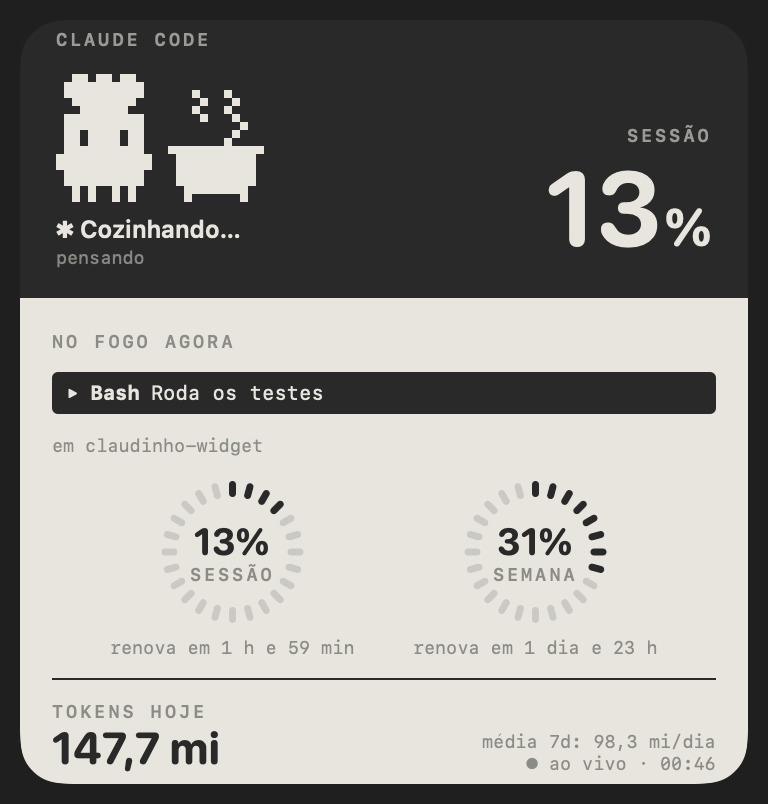
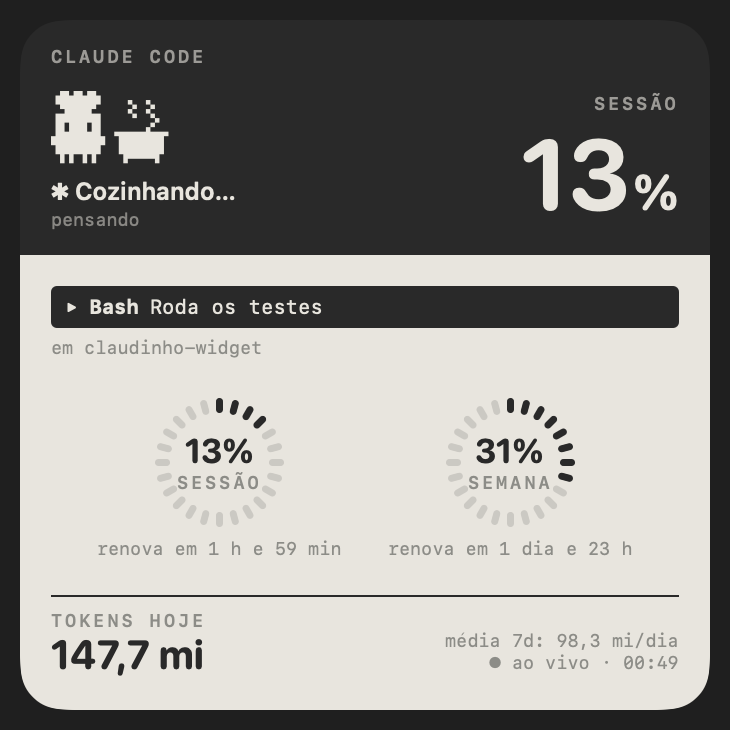
Widget médio e grande se ajustam ao tamanho real
O grande neste macOS tem 345x345, não 364x382, e cortava os tokens.
Médio e grande medem o espaço e distribuem a partir dele; o pequeno
usa a forma curta da renovação. Testes renderizam os dois tamanhos.

diff --git a/Widget/ClaudinhoWidget.swift b/Widget/ClaudinhoWidget.swift
@@ -131,7 +131,10 @@ struct SmallView: View {
                 Chef(state: s.state, pixel: 1.5)
             }
             Pct(value: s.sessionPct, size: 40, color: paper)
-            Resets(date: s.sessionResetsAt).font(.system(size: 10, design: .monospaced)).foregroundStyle(paper.opacity(0.55)).lineLimit(1)
+            Group {
+                if let r = s.sessionResetsAt { Text("↻ ") + Text(r, style: .relative) } else { Text("sem sessão ativa") }
+            }
+            .font(.system(size: 10, design: .monospaced)).foregroundStyle(paper.opacity(0.55)).lineLimit(1)
             Spacer(minLength: 4)
             Text("✱ \(s.state.title)").font(.system(size: 13, weight: .semibold)).foregroundStyle(paper).lineLimit(1)
             Text("semana \(Int((s.weekPct * 100).rounded()))%")
@@ -145,35 +148,44 @@ struct SmallView: View {
     }
 }
 
+// O tamanho de cada família muda com a tela e a versão do macOS (o grande chegou a 345x345
+// em vez de 364x382), então médio e grande medem o espaço e distribuem a partir dele.
+
 struct MediumView: View {
     let e: Entry
     var body: some View {
         let s = e.snap
-        HStack(spacing: 0) {
-            ChefSide(s: s, pixel: 3)
-                .padding(14)
-                .frame(width: 128, alignment: .leading)
-                .frame(maxHeight: .infinity)
-                .background(ink)
-            VStack(alignment: .leading, spacing: 6) {
-                ToolBar(s: s)
-                HStack(spacing: 10) {
-                    Dial(pct: s.sessionPct, label: "sessão", footnote: "", size: 62)
-                    Dial(pct: s.weekPct, label: "semana", footnote: "", size: 62)
-                }
-                .frame(maxWidth: .infinity)
-                HStack(alignment: .firstTextBaseline) {
-                    Text(Fmt.tokens(s.todayTokens)).font(.system(size: 13, weight: .bold, design: .rounded)).foregroundStyle(ink)
-                    Text("hoje").font(.system(size: 9, design: .monospaced)).foregroundStyle(faded)
-                    Spacer()
-                    if let r = s.sessionResetsAt {
-                        (Text("↻ ") + Text(r, style: .relative)).font(.system(size: 9, design: .monospaced)).foregroundStyle(faded).lineLimit(1)
+        GeometryReader { geo in
+            let h = geo.size.height
+            let dial = min(62, h * 0.38)
+            HStack(spacing: 0) {
+                ChefSide(s: s, pixel: min(3, (geo.size.width * 0.35 - 28) / CGFloat(Sprites.width)))
+                    .padding(14)
+                    .frame(width: geo.size.width * 0.35, alignment: .leading)
+                    .frame(maxHeight: .infinity)
+                    .background(ink)
+                VStack(alignment: .leading, spacing: 0) {
+                    ToolBar(s: s)
+                    Spacer(minLength: 4)
+                    HStack(spacing: 10) {
+                        Dial(pct: s.sessionPct, label: "sessão", footnote: "", size: dial)
+                        Dial(pct: s.weekPct, label: "semana", footnote: "", size: dial)
+                    }
+                    .frame(maxWidth: .infinity)
+                    Spacer(minLength: 4)
+                    HStack(alignment: .firstTextBaseline) {
+                        Text(Fmt.tokens(s.todayTokens)).font(.system(size: 13, weight: .bold, design: .rounded)).foregroundStyle(ink)
+                        Text("hoje").font(.system(size: 9, design: .monospaced)).foregroundStyle(faded)
+                        Spacer(minLength: 4)
+                        if let r = s.sessionResetsAt {
+                            (Text("↻ ") + Text(r, style: .relative)).font(.system(size: 9, design: .monospaced)).foregroundStyle(faded).lineLimit(1)
+                        }
                     }
                 }
+                .padding(12)
+                .frame(maxWidth: .infinity, maxHeight: .infinity)
+                .background(paper)
             }
-            .padding(12)
-            .frame(maxWidth: .infinity, maxHeight: .infinity)
-            .background(paper)
         }
     }
 }
@@ -182,52 +194,61 @@ struct LargeView: View {
     let e: Entry
     var body: some View {
         let s = e.snap
-        VStack(spacing: 0) {
-            HStack(alignment: .bottom, spacing: 0) {
-                ChefSide(s: s, pixel: 4)
-                Spacer(minLength: 8)
-                VStack(alignment: .trailing, spacing: 0) {
-                    Caption(text: "Sessão", color: paper.opacity(0.6))
-                    Pct(value: s.sessionPct, size: 52, color: paper)
+        GeometryReader { geo in
+            let h = geo.size.height
+            let pad = min(16, h * 0.045)
+            let header = h * 0.34
+            let dial = min(76, h * 0.2)
+            VStack(spacing: 0) {
+                HStack(alignment: .bottom, spacing: 0) {
+                    ChefSide(s: s, pixel: min(4, (header - 2 * pad - 50) / CGFloat(Sprites.height)))
+                    Spacer(minLength: 8)
+                    VStack(alignment: .trailing, spacing: 0) {
+                        Caption(text: "Sessão", color: paper.opacity(0.6))
+                        Pct(value: s.sessionPct, size: min(52, header * 0.42), color: paper)
+                    }
                 }
+                .padding(pad)
+                .frame(height: header)
+                .frame(maxWidth: .infinity)
+                .background(ink)
+                VStack(alignment: .leading, spacing: 0) {
+                    ToolBar(s: s)
+                    if let p = s.project {
+                        Text("em \(p)").font(.system(size: 9, design: .monospaced)).foregroundStyle(faded).lineLimit(1)
+                            .padding(.top, 4)
+                    }
+                    Spacer(minLength: 4)
+                    HStack {
+                        Spacer()
+                        VStack(spacing: 3) {
+                            Dial(pct: s.sessionPct, label: "sessão", footnote: "", size: dial)
+                            Resets(date: s.sessionResetsAt).font(.system(size: 9, design: .monospaced)).foregroundStyle(faded).lineLimit(1)
+                        }
+                        Spacer()
+                        VStack(spacing: 3) {
+                            Dial(pct: s.weekPct, label: "semana", footnote: "", size: dial)
+                            Resets(date: s.weekResetsAt).font(.system(size: 9, design: .monospaced)).foregroundStyle(faded).lineLimit(1)
+                        }
+                        Spacer()
+                    }
+                    Spacer(minLength: 4)
+                    Rectangle().fill(ink).frame(height: 1)
+                    HStack(alignment: .lastTextBaseline) {
+                        VStack(alignment: .leading, spacing: 0) {
+                            Caption(text: "Tokens hoje")
+                            Text(Fmt.tokens(s.todayTokens)).font(.system(size: 20, weight: .bold, design: .rounded)).foregroundStyle(ink)
+                        }
+                        Spacer(minLength: 4)
+                        Text("média 7d: \(Fmt.tokens(s.avg7dTokens))/dia\n" + (s.liveAt.map { "● ao vivo · \(Fmt.time($0))" } ?? "estimado"))
+                            .font(.system(size: 9, design: .monospaced)).foregroundStyle(faded).multilineTextAlignment(.trailing)
+                    }
+                    .padding(.top, 6)
+                }
+                .padding(pad)
+                .frame(maxWidth: .infinity, maxHeight: .infinity, alignment: .top)
+                .background(paper)
             }
-            .padding(18)
-            .frame(height: 150)
-            .frame(maxWidth: .infinity)
-            .background(ink)
-            VStack(alignment: .leading, spacing: 10) {
-                Caption(text: "No fogo agora")
-                ToolBar(s: s)
-                if let p = s.project {
-                    Text("em \(p)").font(.system(size: 9, design: .monospaced)).foregroundStyle(faded).lineLimit(1)
-                }
-                HStack {
-                    Spacer()
-                    VStack(spacing: 4) {
-                        Dial(pct: s.sessionPct, label: "sessão", footnote: "", size: 76)
-                        Resets(date: s.sessionResetsAt).font(.system(size: 9, design: .monospaced)).foregroundStyle(faded).lineLimit(1)
-                    }
-                    Spacer()
-                    VStack(spacing: 4) {
-                        Dial(pct: s.weekPct, label: "semana", footnote: "", size: 76)
-                        Resets(date: s.weekResetsAt).font(.system(size: 9, design: .monospaced)).foregroundStyle(faded).lineLimit(1)
-                    }
-                    Spacer()
-                }
-                Rectangle().fill(ink).frame(height: 1)
-                HStack(alignment: .bottom) {
-                    VStack(alignment: .leading, spacing: 0) {
-                        Caption(text: "Tokens hoje")
-                        Text(Fmt.tokens(s.todayTokens)).font(.system(size: 22, weight: .bold, design: .rounded)).foregroundStyle(ink)
-                    }
-                    Spacer()
-                    Text("média 7d: \(Fmt.tokens(s.avg7dTokens))/dia\n" + (s.liveAt.map { "● ao vivo · \(Fmt.time($0))" } ?? "estimado"))
-                        .font(.system(size: 9, design: .monospaced)).foregroundStyle(faded).multilineTextAlignment(.trailing)
-                }
-            }
-            .padding(16)
-            .frame(maxWidth: .infinity, maxHeight: .infinity, alignment: .top)
-            .background(paper)
         }
     }
 }

diff --git a/tests/unit/main.swift b/tests/unit/main.swift
@@ -219,9 +219,10 @@ MainActor.assumeIsolated {
     @MainActor func size(_ v: some View, _ w: CGFloat, _ h: CGFloat) -> Bool {
         ImageRenderer(content: v.frame(width: w, height: h)).cgImage.map { $0.width == Int(w) && $0.height == Int(h) } == true
     }
-    check(size(SmallView(e: e), 170, 170), "widget pequeno renderiza")
-    check(size(MediumView(e: e), 364, 170), "widget médio renderiza")
-    check(size(LargeView(e: e), 364, 382), "widget grande renderiza")
+    // tamanho real deste macOS e o tamanho maior de outras telas: os dois têm que caber
+    for (w, h) in [(158, 158), (170, 170)] { check(size(SmallView(e: e), CGFloat(w), CGFloat(h)), "widget pequeno renderiza em \(w)x\(h)") }
+    for (w, h) in [(345, 158), (364, 170)] { check(size(MediumView(e: e), CGFloat(w), CGFloat(h)), "widget médio renderiza em \(w)x\(h)") }
+    for (w, h) in [(345, 345), (364, 382)] { check(size(LargeView(e: e), CGFloat(w), CGFloat(h)), "widget grande renderiza em \(w)x\(h)") }
     check(size(MissingView(), 170, 170), "widget sem app renderiza")
 }
 

diff --git a/tools/preview/main.swift b/tools/preview/main.swift
@@ -95,9 +95,9 @@ try? FileManager.default.createDirectory(at: out.appendingPathComponent("widget"
 MainActor.assumeIsolated {
     let e = Entry(date: Date(), snap: .placeholder, missing: false)
     var resting = WidgetSnapshot.placeholder; resting.state = .resting; resting.toolName = nil; resting.toolDetail = nil
-    widget(SmallView(e: e), 170, 170, "pequeno")
-    widget(MediumView(e: e), 364, 170, "medio")
-    widget(LargeView(e: e), 364, 382, "grande")
+    widget(SmallView(e: e), 158, 158, "pequeno")
+    widget(MediumView(e: e), 345, 158, "medio")
+    widget(LargeView(e: e), 345, 345, "grande")
     widget(SmallView(e: Entry(date: Date(), snap: resting, missing: false)), 170, 170, "pequeno-descansando")
 }
 print("imagens em \(out.path)")
